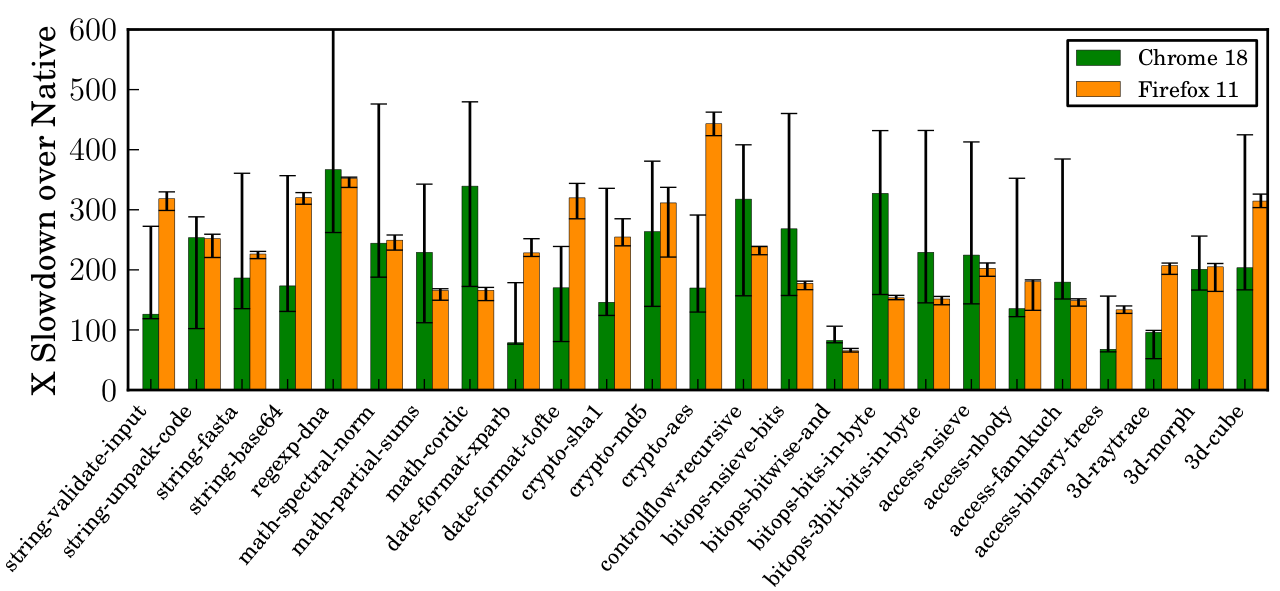
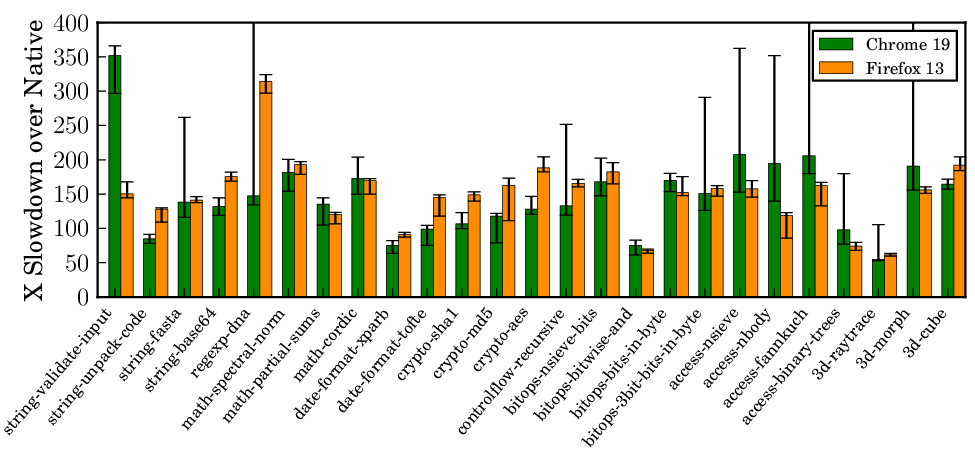
Updated sunspider benchmark and added animated firefox benchmark progress

diff --git a/index.html b/index.html
@@ -413,8 +413,13 @@ function fibonacci(n) {
     <h1>Sunspider Benchmark</h1>
     <img class="solo-image" src="img/combined_times.png" />
   </div>
-
+  
   <div class="step slide" data-x="15000">
+    <h1>Sunspider Benchmark</h1>
+    <img class="solo-image" src="img/ff_times.gif" />
+  </div>
+
+  <div class="step slide" data-x="16000">
     <h1>Microbenchmark</h1>
     <table style="margin-top: 50px; width: 600px;" class="table table-striped">
       <tbody>
@@ -458,7 +463,7 @@ function fibonacci(n) {
     </table>
   </div>
 
-  <div class="step slide" data-x="16000">
+  <div class="step slide" data-x="17000">
     <h1>js.js</h1>
     <ul>
       <li>A secure sandbox for untrusted scripts
